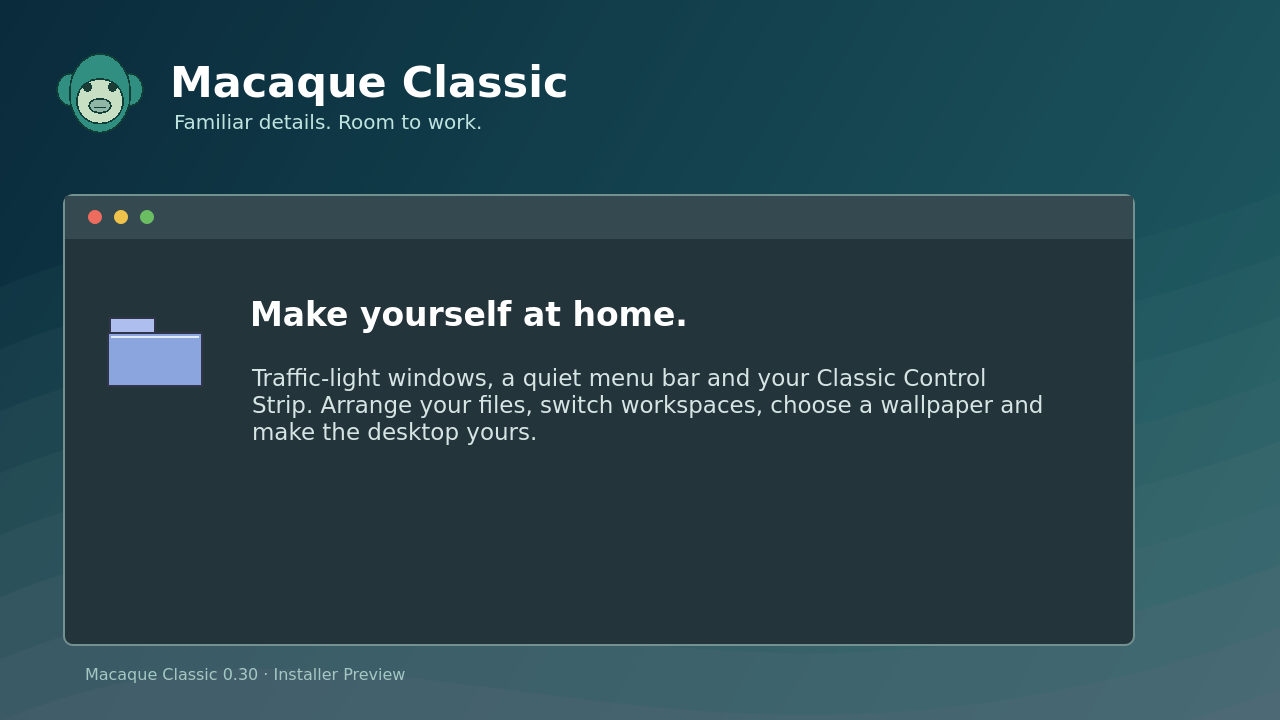
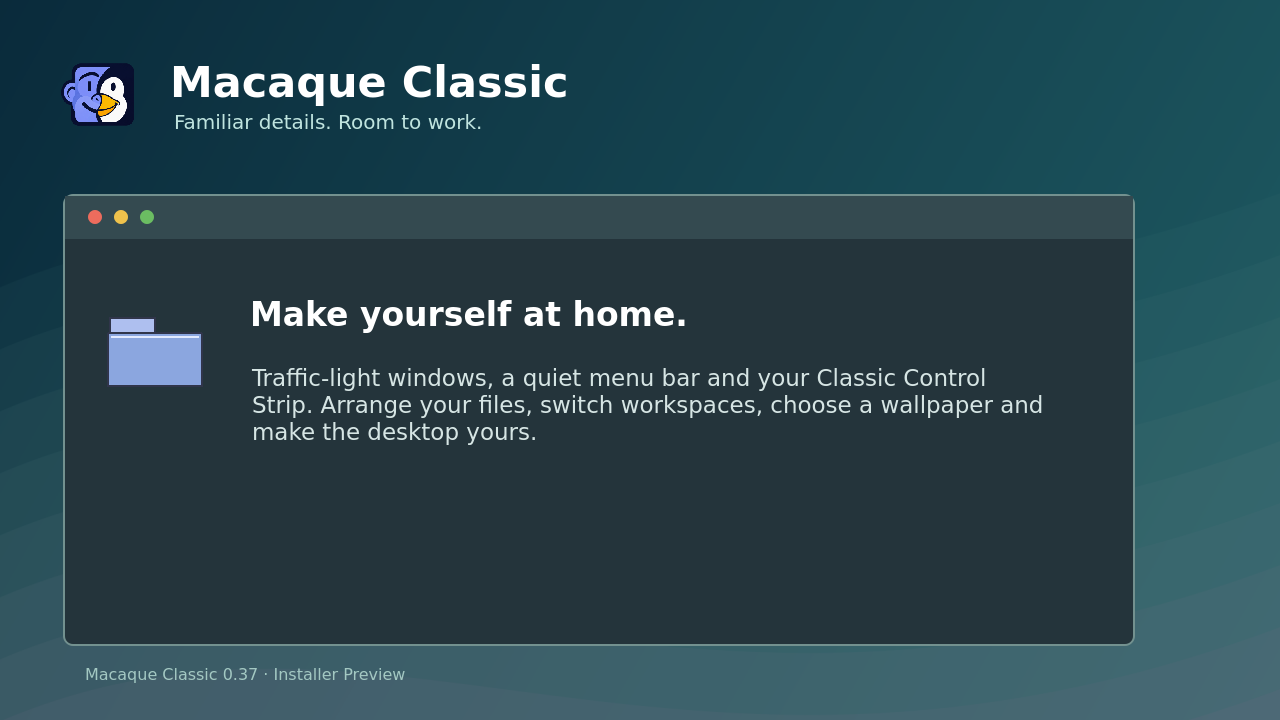
Add v0.38 desktop drawer tabs and retain updated Macaque branding

Changed region(s): [[0.0312, 0.0611, 0.125, 0.1833]]

diff --git a/desktop/desktop.py b/desktop/desktop.py
@@ -24,7 +24,7 @@ from teapot import Teapot
 from wallpapers import Wallpapers,render as render_wallpaper,NAMES as WALLPAPERS
 from mouse_tools import DesktopIcon,MousePreferences,paths_from
 from system_apps import AppHub,Sound,Network,Storage,Monitor,Display,ImageViewer,EmbeddedDialog
-VERSION='0.36'
+VERSION='0.38'
 
 from menu_compat import Menu as QMenu
 
@@ -35,7 +35,7 @@ class TitleBar(QWidget):
             b=QPushButton();b.setToolTip(name);b.setAccessibleName(name);b.setFixedSize(14,14);b.setStyleSheet(f'QPushButton {{background:{color}; border:1px solid #666; border-radius:7px; padding:0;}}');b.clicked.connect(callback);layout.addWidget(b)
         layout.addStretch();self.label=QLabel(title);self.label.setTextFormat(Qt.PlainText);self.label.setObjectName('titleCaption');layout.addWidget(self.label);layout.addStretch()
     def contextMenuEvent(self,event):
-        menu=QMenu(self);menu.addAction('Minimize',self.w.showMinimized);menu.addAction('Restore' if self.w.isMaximized() else 'Zoom',self.w.zoom);menu.addAction('Unshade' if self.w.shaded else 'Shade',self.w.shade)
+        menu=QMenu(self);menu.addAction('Minimize',self.w.showMinimized);menu.addAction('Restore' if self.w.isMaximized() else 'Zoom',self.w.zoom);menu.addAction('Unshade' if self.w.shaded else 'Shade',self.w.shade);menu.addAction('Detach Desktop Tab' if self.w.property('desktop_tabbed') else 'Tab to Desktop',lambda:self.w.d.desktop_tabs.detach(self.w) if self.w.property('desktop_tabbed') else self.w.d.desktop_tabs.attach(self.w))
         spaces=menu.addMenu('Move to Workspace')
         for i,name in enumerate(self.w.d.workspace_names()):spaces.addAction(name,lambda checked=False,n=i:self.w.d.move_to_workspace(self.w,n))
         menu.addSeparator();menu.addAction('Close',self.w.close);menu.exec(event.globalPos())
@@ -44,11 +44,14 @@ class TitleBar(QWidget):
         if self.w.d.area.activeSubWindow()==self.w:
             for y in range(5,27,3):p.drawLine(77,y,self.width()-7,y)
     def mousePressEvent(self,e):
-        if e.button()==Qt.LeftButton:self.drag=e.globalPosition().toPoint()-self.w.pos()
+        if e.button()==Qt.LeftButton:self.press_geometry=self.w.geometry();self.tab_dragged=False;self.drag=e.globalPosition().toPoint()-self.w.pos()
     def mouseMoveEvent(self,e):
         if self.drag is not None and e.buttons()&Qt.LeftButton and not self.w.isMaximized():
-            pos=e.globalPosition().toPoint()-self.drag;pos.setY(max(0,pos.y()));pos.setX(max(20-self.w.width(),min(self.w.d.area.viewport().width()-30,pos.x())));self.w.move(pos)
-    def mouseReleaseEvent(self,e):self.drag=None
+            if self.w.property('desktop_tabbed'):self.w.d.desktop_tabs.detach(self.w,keep_geometry=True)
+            self.tab_dragged=True;pos=e.globalPosition().toPoint()-self.drag;pos.setY(max(0,pos.y()));pos.setX(max(20-self.w.width(),min(self.w.d.area.viewport().width()-30,pos.x())));self.w.move(pos)
+    def mouseReleaseEvent(self,e):
+        if self.drag is not None and getattr(self,'tab_dragged',False) and self.w.d.area.viewport().mapFromGlobal(e.globalPosition().toPoint()).y()>=self.w.d.area.viewport().height()-28:self.w.d.desktop_tabs.attach(self.w,self.press_geometry)
+        self.drag=None
     def mouseDoubleClickEvent(self,e):self.w.zoom() if self.w.d.state.get('title_double')=='Zoom' else self.w.shade()
 
 class Window(QMdiSubWindow):
@@ -64,9 +67,11 @@ class Window(QMdiSubWindow):
         if isValid(self):animate(self,True)
     def rename(self,title):self.setWindowTitle(title);self.bar.label.setText(title)
     def zoom(self):
+        if self.property('desktop_tabbed'):self.d.desktop_tabs.detach(self,keep_geometry=True)
         if self.shaded:self.shade()
         self.showNormal() if self.isMaximized() else self.showMaximized()
     def shade(self):
+        if self.property('desktop_tabbed'):self.d.desktop_tabs.detach(self,keep_geometry=True)
         if self.isMaximized():self.showNormal()
         if self.shaded:
             self.setMaximumHeight(16777215);self.setMinimumHeight(200);self.content.show();self.grip.show();self.resize(self.saved_size);self.shaded=False
@@ -74,6 +79,7 @@ class Window(QMdiSubWindow):
             self.saved_size=self.size();self.content.hide();self.grip.hide();self.setMinimumHeight(34);self.setMaximumHeight(34);self.resize(self.width(),34);self.shaded=True
     def closeEvent(self,e):
         if hasattr(self.content,'can_close') and not self.content.can_close():e.ignore();return
+        if hasattr(self.d,'desktop_tabs') and self in self.d.desktop_tabs.records:self.d.desktop_tabs.remove_deleted(self)
         animate(self,False)
         self.d.play_sound('close');super().closeEvent(e)
 
@@ -120,6 +126,8 @@ class Desktop(InstallerSupport,ContextActions,WorkspaceFeatures,ModernFeatures,Q
         self.hardware_keys=HardwareKeys(self)
         from removable_drives import RemovableMonitor
         self.removable=RemovableMonitor(self)
+        from desktop_tabs import DesktopTabs
+        self.desktop_tabs=DesktopTabs(self)
         self.top_bar.help.addAction('Diagnostics',self.diagnostics);QTimer.singleShot(0,self.initial)
     def initial(self):
         if not getattr(self,'_welcome_checked',False):
@@ -542,7 +550,7 @@ class Desktop(InstallerSupport,ContextActions,WorkspaceFeatures,ModernFeatures,Q
     def special_menu(self):
         m=self.top_bar.special;m.clear();m.addAction('Empty Trash…',self.empty_trash);m.addAction('Manage Macaque Notes…',self.manage_stickies);m.addSeparator();m.addAction('Screen Saver Preview',self.screensaver);m.addAction('Restart Desktop…',self.restart);m.addAction('Quit Desktop',self.close)
     def window_menu(self,target=None):
-        m=target or self.top_bar.windows;m.clear();m.addAction('Cascade Windows',self.area.cascadeSubWindows);m.addAction('Tile Windows',self.area.tileSubWindows);spaces=m.addMenu('Workspaces');self.workspace_menu(spaces);m.addAction('Snap Active Left',lambda:self.snap_window('left'));m.addAction('Snap Active Right',lambda:self.snap_window('right'));m.addAction('Show / Restore Desktop',self.show_desktop);m.addSeparator()
+        m=target or self.top_bar.windows;m.clear();m.addAction('Cascade Windows',self.area.cascadeSubWindows);m.addAction('Tile Windows',self.area.tileSubWindows);spaces=m.addMenu('Workspaces');self.workspace_menu(spaces);m.addAction('Snap Active Left',lambda:self.snap_window('left'));m.addAction('Snap Active Right',lambda:self.snap_window('right'));m.addAction('Show / Restore Desktop',self.show_desktop);m.addAction('Tab Active Window to Desktop',lambda:self.desktop_tabs.attach(self.area.activeSubWindow()) if self.area.activeSubWindow() else None);m.addSeparator()
         for window in self.area.subWindowList():
             action=m.addAction(self.workspace_names()[window.property('workspace') or 0]+' / '+window.windowTitle(),lambda checked=False,w=window:self.activate_window(w));action.setCheckable(True);action.setChecked(window==self.area.activeSubWindow());action.setData(window)
     def save_active(self,save_as=False):
@@ -568,7 +576,7 @@ class Desktop(InstallerSupport,ContextActions,WorkspaceFeatures,ModernFeatures,Q
     def text_window(self,title,text,size=(490,340)):
         box=QTextEdit();box.setReadOnly(True);box.setPlainText(text);return self.window(title,box,size)
     def about(self):
-        panel=QWidget();layout=QHBoxLayout(panel);picture=QLabel();picture.setPixmap(icon('macaque',100).pixmap(100,100));layout.addWidget(picture);body=QLabel(f'<h2>Macaque Classic {VERSION}</h2><b>Macaque Desktop</b><p>Native Qt · Linux prototype<br>Classic Control Strip 2.0.6<br>Created with Drew Owen</p><p>Running: {platform.system()} {platform.machine()}<br>Target: Ryzen 7 + Radeon RX 6700 XT</p><p>Macaque Files · Control Panels · Macaque Text<br>Macaque Notes · Macaque Search · classic extras</p>');body.setWordWrap(True);layout.addWidget(body,1);return self.window('About This Computer',panel,(550,330))
+        panel=QWidget();layout=QHBoxLayout(panel);picture=QLabel();picture.setPixmap(icon('macaque-round',100).pixmap(100,100));layout.addWidget(picture);body=QLabel(f'<h2>Macaque Classic {VERSION}</h2><b>Macaque Desktop</b><p>Native Qt · Linux prototype<br>Classic Control Strip 2.0.6<br>Created with Drew Owen</p><p>Running: {platform.system()} {platform.machine()}<br>Target: Ryzen 7 + Radeon RX 6700 XT</p><p>Macaque Files · Control Panels · Macaque Text<br>Macaque Notes · Macaque Search · classic extras</p>');body.setWordWrap(True);layout.addWidget(body,1);return self.window('About This Computer',panel,(550,330))
     def control_panels(self):
         panel=QWidget();layout=QVBoxLayout(panel);grid=QGridLayout();layout.addLayout(grid)
         actions=[('Appearance','appearance',self.appearance),('Date & Time','clock',self.calendar),('Sound','computer',lambda:self.launch('Sound')),('Memory','computer',self.memory),('Desktop Disk','disk',lambda:self.text_window('Desktop Disk',f'Macaque HD is stored at:\n{self.disk.root}\n\nAvailable on host filesystem: {self.format_bytes(self.free_space())}')),('Screen Saver','computer',self.screensaver)]
@@ -644,7 +652,7 @@ class Desktop(InstallerSupport,ContextActions,WorkspaceFeatures,ModernFeatures,Q
                 if hasattr(window.content,'can_close') and not window.content.can_close():event.ignore();return
         if not self.app_support.can_close():event.ignore();return
         if hasattr(self,'creative_apps') and not self.creative_apps.can_close():event.ignore();return
-        self.persist();event.accept()
+        self.desktop_tabs.shutdown();self.persist();event.accept()
 
 if __name__=='__main__':
     from PySide6.QtCore import QProcess

diff --git a/desktop/desktop_tabs.py b/desktop/desktop_tabs.py
@@ -1,0 +1,91 @@
+"""Bottom-edge drawer tabs for live built-in windows; documents stay in memory."""
+from PySide6.QtCore import Qt,QObject,QEvent,QRect,QTimer
+from PySide6.QtWidgets import QTabBar,QMenu
+from shiboken6 import isValid
+
+class DesktopTabs(QObject):
+    def __init__(self,d):
+        super().__init__(d);self.d=d;self.records={};self.bar=QTabBar(d.area.viewport());self.bar.setObjectName('desktopDrawerTabs');self.bar.setExpanding(False);self.bar.setMovable(True);self.bar.setUsesScrollButtons(True);self.bar.setElideMode(Qt.ElideRight);self.bar.setDrawBase(False);self.bar.setShape(QTabBar.RoundedNorth);self.bar.hide();self.bar.tabBarClicked.connect(self.toggle_index);self.bar.tabMoved.connect(lambda *_:self.layout());self.bar.setContextMenuPolicy(Qt.CustomContextMenu);self.bar.customContextMenuRequested.connect(self.context);d.area.viewport().installEventFilter(self)
+        self.timer=QTimer(self);self.timer.setInterval(250);self.timer.timeout.connect(self.layout);self.timer.start()
+    def eventFilter(self,obj,event):
+        if event.type() in (QEvent.Resize,QEvent.Show):QTimer.singleShot(0,self.layout)
+        return False
+    def index(self,w):return next((i for i in range(self.bar.count()) if self.bar.tabData(i) is w),-1)
+    def attach(self,w,geometry=None):
+        if not isValid(w) or w in self.records:return
+        if w.isMaximized() or w.isMinimized():w.showNormal()
+        if w.shaded:w.shade()
+        self.records[w]={'geometry':QRect(geometry or w.geometry()),'drawer_size':w.size(),'open':False};w.setProperty('desktop_tabbed',True)
+        i=self.bar.addTab(w.windowTitle());self.bar.setTabData(i,w);self.bar.setTabToolTip(i,w.windowTitle()+' · click to open/collapse · right-click for options')
+        w.windowTitleChanged.connect(lambda *_:self.titles());w.destroyed.connect(lambda *_ ,key=w:self.remove_deleted(key));w.hide();self.layout()
+    def titles(self):
+        for w in self.records:
+            if isValid(w):
+                i=self.index(w)
+                if i>=0:self.bar.setTabText(i,w.windowTitle());self.bar.setTabToolTip(i,w.windowTitle()+' · click to open/collapse · right-click for options')
+    def remove_deleted(self,w):
+        self.records.pop(w,None)
+        if not isValid(self.bar):return
+        i=self.index(w)
+        if i>=0:self.bar.removeTab(i)
+        self.layout()
+    def toggle_index(self,index):
+        w=self.bar.tabData(index)
+        if w not in self.records:return
+        if self.records[w]['open']:self.collapse(w)
+        else:self.open(w)
+    def collapse(self,w):
+        if w not in self.records:return
+        self.records[w]['open']=False;w.hide();self.layout()
+    def open(self,w):
+        if w not in self.records or not isValid(w):return
+        space=w.property('workspace')
+        if space!=self.d.workspace:self.d.switch_workspace(space)
+        for other,record in self.records.items():
+            if other is not w and isValid(other) and other.property('workspace')==space:record['open']=False;other.hide()
+        self.records[w]['open']=True;self.bar.setCurrentIndex(self.index(w));w.showNormal();self.layout();w.raise_();self.bar.raise_();self.d.area.setActiveSubWindow(w);w.content.setFocus()
+    def detach(self,w,keep_geometry=False):
+        record=self.records.pop(w,None)
+        if not record:return
+        i=self.index(w)
+        if i>=0:self.bar.removeTab(i)
+        if isValid(w):
+            w.setProperty('desktop_tabbed',False)
+            if not keep_geometry:w.setGeometry(record['geometry'])
+            if w.property('workspace')==self.d.workspace:w.showNormal();w.raise_();self.d.area.setActiveSubWindow(w)
+        self.layout()
+    def layout(self):
+        if not isValid(self.d.area) or not isValid(self.bar):return
+        viewport=self.d.area.viewport();visible=[]
+        for w,record in list(self.records.items()):
+            if not isValid(w):continue
+            if w.isMinimized():record['open']=False
+            active=w.property('workspace')==self.d.workspace;i=self.index(w)
+            if i>=0:self.bar.setTabVisible(i,active)
+            if active:visible.append(w)
+            w.setVisible(active and record['open'])
+        if not visible:self.bar.hide();return
+        c=self.d.colors();self.bar.setStyleSheet('QTabBar::tab {background:'+c['title']+';color:'+c['text']+';border:1px solid '+c['stripe']+';border-top-left-radius:5px;border-top-right-radius:5px;padding:4px 12px;min-width:65px;max-width:180px;} QTabBar::tab:selected {font-weight:bold;}')
+        height=max(26,self.d.state.get('text_size',13)+12);left=4;y=viewport.height()-height
+        strip=getattr(self.d,'strip',None)
+        if strip and isValid(strip) and strip.isVisible() and strip.geometry().bottom()>=y-5:
+            if viewport.width()-strip.geometry().right()>250:left=max(4,strip.geometry().right()+8)
+            else:y=max(0,strip.geometry().top()-height-3)
+        self.bar.setGeometry(left,max(0,y),max(50,viewport.width()-left-4),height);self.bar.show()
+        for w in visible:
+            record=self.records[w]
+            if not record['open']:continue
+            if 'last_size' in record and w.size()!=record['last_size']:record['drawer_size']=w.size()
+            size=record['drawer_size'];width=max(280,min(size.width(),viewport.width()));height_w=max(200,min(size.height(),max(200,y)))
+            i=self.index(w);tab=self.bar.tabRect(i);x=max(0,min(left+tab.left(),viewport.width()-width));w.setGeometry(x,max(0,y-height_w),width,height_w);record['last_size']=w.size()
+        self.bar.raise_()
+    def shutdown(self):
+        self.timer.stop();self.bar.blockSignals(True)
+        while self.bar.count():self.bar.removeTab(0)
+        self.records.clear();self.bar.hide()
+    def context(self,pos):
+        index=self.bar.tabAt(pos)
+        if index<0:return
+        w=self.bar.tabData(index);menu=QMenu(self.bar)
+        menu.addAction('Collapse' if self.records[w]['open'] else 'Open',lambda:self.toggle_index(self.index(w)))
+        menu.addAction('Detach as Normal Window',lambda:self.detach(w));menu.addSeparator();menu.addAction('Close Window',w.close);menu.exec(self.bar.mapToGlobal(pos))

diff --git a/desktop/test_desktop_tabs.py b/desktop/test_desktop_tabs.py
@@ -1,0 +1,31 @@
+import os,tempfile
+from pathlib import Path
+os.environ['QT_QPA_PLATFORM']='offscreen';os.environ['MACAQUE_SILENT']='1'
+from PySide6.QtCore import Qt,QPoint,QEvent
+from PySide6.QtWidgets import QApplication,QMessageBox
+from PySide6.QtTest import QTest
+from unittest.mock import patch
+from desktop import Desktop
+app=QApplication([])
+with tempfile.TemporaryDirectory() as t:
+ d=Desktop(Path(t));d.state['reduce_motion']=True;d.show();QTest.qWait(80);tabs=d.desktop_tabs
+ w=d.launch('Macaque Text');editor=w.content.editor;editor.setPlainText('Keep my unsaved work');original=w.geometry();tabs.attach(w);assert not w.isVisible() and tabs.bar.isVisible() and tabs.bar.count()==1
+ QTest.mouseClick(tabs.bar,Qt.LeftButton,pos=tabs.bar.tabRect(0).center());assert w.isVisible() and editor.toPlainText()=='Keep my unsaved work';assert w.geometry().bottom()<=tabs.bar.y()
+ QTest.mouseClick(tabs.bar,Qt.LeftButton,pos=tabs.bar.tabRect(0).center());assert not w.isVisible()
+ d.activate_window(w);assert w.isVisible();w.rename('My Draft');assert tabs.bar.tabText(0)=='My Draft'
+ other=d.launch('Calculator');tabs.attach(other);tabs.open(other);assert not w.isVisible() and other.isVisible();tabs.open(w);assert not other.isVisible()
+ d.resize(900,650);QTest.qWait(60);tabs.layout();assert w.geometry().bottom()<=tabs.bar.y() and tabs.bar.geometry().right()<d.area.viewport().width()
+ d.switch_workspace(1);assert not w.isVisible() and not tabs.bar.isVisible();d.switch_workspace(0);assert w.isVisible() and tabs.bar.isVisible()
+ d.move_to_workspace(w,2);assert not w.isVisible();d.activate_window(w);assert d.workspace==2 and w.isVisible()
+ tabs.detach(w);assert not w.property('desktop_tabbed') and w.geometry()==original and editor.toPlainText()=='Keep my unsaved work'
+ tabs.attach(w)
+ with patch.object(w.content,'can_close',return_value=False):w.close();assert w in tabs.records
+ with patch.object(w.content,'can_close',return_value=True):w.close();QTest.qWait(20);assert w not in tabs.records
+ d.switch_workspace(0);tabs.detach(other);assert tabs.bar.count()==0 and not tabs.bar.isVisible()
+ # Drag a live title bar to the lower edge; dragging back out detaches.
+ test=d.launch('Calculator');test.move(50,50);press=test.bar.rect().center();target=d.area.viewport().mapToGlobal(QPoint(300,d.area.viewport().height()-5));end=test.bar.mapFromGlobal(target)
+ QTest.mousePress(test.bar,Qt.LeftButton,pos=press);QTest.mouseMove(test.bar,end,20);QTest.mouseRelease(test.bar,Qt.LeftButton,pos=end);assert test in tabs.records
+ tabs.open(test);QTest.mousePress(test.bar,Qt.LeftButton,pos=test.bar.rect().center());QTest.mouseMove(test.bar,QPoint(100,-80),20);QTest.mouseRelease(test.bar,Qt.LeftButton,pos=QPoint(100,-80));assert test not in tabs.records
+ for _ in range(3):tabs.attach(d.launch('Calculator'))
+ d.quitting=True;d.close();assert tabs.bar.count()==0 and not tabs.timer.isActive()
+print('Desktop drawer tabs: click open/collapse, preserved edits, rename, detach geometry, close cancellation, workspace move/activation, resize, drag-to-edge and drag-off passed.')

diff --git a/iso/render-branding.py b/iso/render-branding.py
@@ -18,7 +18,7 @@ def card(name,title,subtitle,kind,body):
  for x,c in [(88,'#ed6c5d'),(114,'#efc24c'),(140,'#6bbd62')]:p.setPen(Qt.NoPen);p.setBrush(QColor(c));p.drawEllipse(x,210,14,14)
  p.drawPixmap(100,292,110,110,icon(kind,110).pixmap(110,110));p.setPen(QColor('#ffffff'));p.setFont(QFont('DejaVu Sans',25,QFont.Bold));p.drawText(QRect(250,280,820,70),Qt.AlignLeft|Qt.AlignVCenter,title)
  p.setFont(QFont('DejaVu Sans',17));p.setPen(QColor('#d6e5e4'));p.drawText(QRect(252,365,800,195),Qt.AlignLeft|Qt.TextWordWrap,body)
- p.setFont(QFont('DejaVu Sans',12));p.setPen(QColor('#a3c8c2'));p.drawText(85,680,'Macaque Classic 0.30 · Installer Preview');p.end();image.save(str(dest/name))
+ p.setFont(QFont('DejaVu Sans',12));p.setPen(QColor('#a3c8c2'));p.drawText(85,680,'Macaque Classic 0.37 · Installer Preview');p.end();image.save(str(dest/name))
 card('welcome.png','A classic desktop, ready to explore.','Welcome to your Macaque installation','macaque','Choose your language, keyboard, disk and account. Review the summary before applying changes. Built on Debian Linux, with an original Macaque desktop.')
 card('slide-desktop.png','Make yourself at home.','Familiar details. Room to work.','folder','Traffic-light windows, a quiet menu bar and your Classic Control Strip. Arrange your files, switch workspaces, choose a wallpaper and make the desktop yours.')
 card('slide-terminal.png','A shell with a familiar frame.','Terminal is part of the desktop.','terminal','Open Terminal from the Control Strip or desktop. Real Linux commands run inside a Macaque window, with the same controls as your other built-in apps.')

diff --git a/desktop/run_checks.py b/desktop/run_checks.py
@@ -4,7 +4,7 @@ import os,subprocess,sys,compileall
 from pathlib import Path
 root=Path(__file__).resolve().parent
 env=dict(os.environ,QT_QPA_PLATFORM='offscreen',MACAQUE_SILENT='1')
-checks=['test_desktop.py','test_update.py','test_internal.py','test_expansion.py','test_creative.py','test_modern.py','test_sounds.py','test_search_backup.py','test_app_support.py','test_downloads.py','test_big_update.py','test_publish.py','test_motion.py','test_context.py','test_installer.py','test_menu_compat.py','test_terminal_swap_ui.py','test_terminal_pty.py','test_laptop.py','test_system_services.py','test_system_panels.py','test_wayland.py','test_menu_mark.py','test_laptop_keys.py','test_screenshots.py','test_capture_ui.py','test_reliability.py','test_reliability_ui.py','test_welcome.py','test_finish_features.py']
+checks=['test_desktop.py','test_update.py','test_internal.py','test_expansion.py','test_creative.py','test_modern.py','test_sounds.py','test_search_backup.py','test_app_support.py','test_downloads.py','test_big_update.py','test_publish.py','test_motion.py','test_context.py','test_installer.py','test_menu_compat.py','test_terminal_swap_ui.py','test_terminal_pty.py','test_laptop.py','test_system_services.py','test_system_panels.py','test_wayland.py','test_menu_mark.py','test_laptop_keys.py','test_screenshots.py','test_capture_ui.py','test_reliability.py','test_reliability_ui.py','test_welcome.py','test_finish_features.py','test_desktop_tabs.py']
 if not compileall.compile_dir(root,quiet=1):sys.exit(1)
 for name in checks:
  print('\nChecking '+name,flush=True)

diff --git a/desktop/modern_desktop.py b/desktop/modern_desktop.py
@@ -92,15 +92,20 @@ class ModernFeatures:
         groups=getattr(self,'desktop_window_groups',{});hidden=groups.get(self.workspace,[])
         if hidden:
             for window in hidden:
-                if isValid(window) and window.property('workspace')==self.workspace:window.showNormal()
+                if isValid(window) and window.property('workspace')==self.workspace:
+                    if window.property('desktop_tabbed'):self.desktop_tabs.open(window)
+                    else:window.showNormal()
             groups[self.workspace]=[]
         else:
-            groups[self.workspace]=[w for w in self.area.subWindowList() if w.property('workspace')==self.workspace and not w.isMinimized()]
-            for window in groups[self.workspace]:window.showMinimized()
+            groups[self.workspace]=[w for w in self.area.subWindowList() if w.property('workspace')==self.workspace and not w.isMinimized() and w.isVisible()]
+            for window in groups[self.workspace]:
+                if window.property('desktop_tabbed'):self.desktop_tabs.collapse(window)
+                else:window.showMinimized()
         self.desktop_window_groups=groups
     def snap_window(self,side):
         w=self.area.activeSubWindow()
         if not w:return
+        if w.property('desktop_tabbed'):self.desktop_tabs.detach(w,keep_geometry=True)
         if w.shaded:w.shade()
         w.showNormal();rect=self.area.viewport().rect();half=rect.width()//2;w.setGeometry(0 if side=='left' else half,0,half,rect.height())
     def capture_desktop(self):

diff --git a/desktop/welcome_animation.py b/desktop/welcome_animation.py
@@ -3,12 +3,12 @@ import math
 from PySide6.QtCore import Qt,QTimer,QElapsedTimer,QRectF
 from PySide6.QtGui import QPainter,QColor,QFont,QLinearGradient
 from PySide6.QtWidgets import QDialog
-from window_motion_icon import rainbow_monkey
+from visuals import icon
 DURATION=15.0
 
 class WelcomeAnimation(QDialog):
     def __init__(self,d,replay=False):
-        super().__init__(d);self.d=d;self.replay=replay;self.setWindowTitle('Welcome to Macaque Classic');self.setWindowFlags(Qt.Dialog|Qt.FramelessWindowHint);self.setModal(True);self.resize(1280,720);self.t=0.;self.completed=False;self.logo=rainbow_monkey();self.clock=QElapsedTimer()
+        super().__init__(d);self.d=d;self.replay=replay;self.setWindowTitle('Welcome to Macaque Classic');self.setWindowFlags(Qt.Dialog|Qt.FramelessWindowHint);self.setModal(True);self.resize(1280,720);self.t=0.;self.completed=False;self.logo=icon('macaque');self.clock=QElapsedTimer()
         self.timer=QTimer(self);self.timer.setInterval(33);self.timer.timeout.connect(self.tick);self.finished.connect(self.cleanup)
     def showEvent(self,e):
         super().showEvent(e);self.clock.start();self.timer.start();QTimer.singleShot(400,self.chime)

diff --git a/desktop/workspaces.py b/desktop/workspaces.py
@@ -32,16 +32,19 @@ class WorkspaceFeatures:
         if index not in range(4):return
         self.workspace=index;self.state['workspace']=index
         for window in self.area.subWindowList():window.setVisible(window.property('workspace')==index)
+        if hasattr(self,'desktop_tabs'):self.desktop_tabs.layout()
         self.persist();self.top_bar.refresh_status()
     def activate_window(self,window):
         from shiboken6 import isValid
         if not isValid(window):return
         index=window.property('workspace')
         if index is not None and index!=self.workspace:self.switch_workspace(index)
+        if window.property('desktop_tabbed'):self.desktop_tabs.open(window);return
         window.showNormal();window.raise_();self.area.setActiveSubWindow(window)
     def move_to_workspace(self,window,index):
         if index not in range(4):return
         window.setProperty('workspace',index);window.setVisible(index==self.workspace);self.top_bar.refresh_status()
+        if hasattr(self,'desktop_tabs'):self.desktop_tabs.layout()
     def workspace_menu(self,menu):
         menu.clear()
         for i,name in enumerate(self.workspace_names()):

diff --git a/desktop/visuals.py b/desktop/visuals.py
@@ -16,6 +16,9 @@ QScrollBar { background:#c9c8c3; } QCalendarWidget QWidget { color:#171717; } QS
 '''
 
 def icon(kind='folder',size=56):
+    if kind in ('macaque','macaque-round'):
+        from pathlib import Path
+        return QIcon(str(Path(__file__).parent/'assets/branding'/('round.png' if kind=='macaque-round' else 'square.png')))
     pm=QPixmap(size,size);pm.fill(Qt.transparent);p=QPainter(pm);p.scale(size/56,size/56);p.setPen(QPen(QColor('#30354a'),1))
     if kind in ('folder','apps','system','documents'):
         p.setBrush(QColor('#aebfef'));p.drawRect(5,13,23,10);p.setBrush(QColor('#8ba6df'));p.drawRect(4,21,48,27);p.setPen(QColor('#e2eaff'));p.drawLine(6,23,50,23)

diff --git a/README.md b/README.md
@@ -1,8 +1,24 @@
-# Macaque Classic 0.36 — Setup & Everyday Essentials
+# Macaque Classic 0.38 — Desktop Drawer Tabs
+
+New square monkey/penguin branding in About This Computer, Welcome Center, first-run animated welcome, installer artwork, boot splash and login screen. The round version appears in About This Computer and is included in desktop/assets/branding/round.png.
+
+Install packages/macaque-classic_0.38_amd64.deb on an existing installed Macaque Classic system using the existing update procedure. Log out and back in to refresh desktop branding. This update includes login artwork; boot splash branding is included for newly built ISOs. Existing installations retain their current boot splash.
+
+Build a fresh ISO with ./build-iso.sh using the existing build prerequisites. No ISO was built or boot-tested for this artwork update. The standalone welcome-preview.mp4 is retained from the previous release; the actual first-run desktop animation uses the new shared icon.
+
+# Macaque Classic 0.38 — Setup & Everyday Essentials
 
 Build: extract this kit into a new folder, open that folder in a terminal and run `bash build-iso.sh`. The ISO and checksum are always placed directly in `output/` after assembly/readback. The BIOS QEMU test then runs and saves its result alongside the ISO. A failed or inconclusive boot test no longer hides the assembled image in a root-owned build directory. Failure still means manual boot testing is required before installing.
 
 ## Included in this update
+
+- Classic bottom-edge drawer tabs for built-in windows. Right-click a striped title bar and choose Tab to Desktop, use Window → Tab Active Window to Desktop, or drag the title bar down to the bottom edge.
+- Click a tab to open/collapse its drawer. Only one drawer opens per workspace at a time. Right-click a tab to detach it as a normal window or close it; dragging an opened drawer's title bar away also detaches it.
+- The actual live window is retained, including unsaved edits. Detach restores its saved normal geometry. Closing still respects the application's save/cancel prompt. Tabs are session-local; they do not automatically reopen apps after logout.
+- Tabs follow their workspace and stay reachable on desktop resize. A scrolling/reorderable tab row handles overflow and avoids the visible Control Strip. External Flatpak/emulator windows are not managed by this feature.
+- Keeps v0.37.1 branding, including the restored rainbow system-menu icon. Updated ISO output naming now identifies v0.38.
+
+### Retained desktop features
 
 - Non-skippable 15-second welcome: no Skip/Mute buttons; Escape, Return, accept/reject and close requests do not dismiss it before completion. First-login-only policy retained; normal OS shutdown remains under system control.
 - Setup Assistant follows the intro: appearance/sound, native Wi-Fi link, validated system time-zone selection through timedatectl/polkit, and essential app links. Finish records completion; reopen from the monkey menu.
@@ -31,7 +47,7 @@ Build: extract this kit into a new folder, open that folder in a terminal and ru
 - Compact top panel: 22 logical pixels (previous released default: 32), spacious mode: 28. Text remains 12 px; icon sizes are retained.
 - Always-visible search button beside Controls opens the internal apps/files search. Native Macaque sessions also offer an explicit This PC home-files scope. Hidden files and symlinks are excluded; scans stop at 10,000 entries or 250 matching files. Preview sessions keep search inside the managed Classic volume.
 - New front-facing macaque crest with six horizontal retro rainbow colors, inspired by the small host-panel logo reference. This is a redraw, not the exact original asset.
-- Full source kit: no separate panel patch required. This version identifies itself as 0.36 and produces distinctly named 0.36 media.
+- Full source kit: no separate panel patch required. This version identifies itself as 0.38 and produces distinctly named 0.38 media.
 
 ### Retained laptop and reliability features
 
@@ -57,7 +73,7 @@ Keyboard routing, PipeWire/logind boundaries, screenshot saving/cancel/failure c
 
 ## Build on Ubuntu / Kubuntu
 
-Use an x86-64 Linux computer with Internet, Docker, about 60 GB free space and preferably 8 GB RAM. Open the extracted `macaque-classic-installer-kit-v0.36` folder in Terminal, or clone the repository. First-time Docker setup:
+Use an x86-64 Linux computer with Internet, Docker, about 60 GB free space and preferably 8 GB RAM. Open the extracted `macaque-classic-installer-kit-v0.38` folder in Terminal, or clone the repository. First-time Docker setup:
 
 ```bash
 sudo apt update
@@ -71,14 +87,14 @@ Then run:
 bash build-iso.sh
 ```
 
-The builder uses a privileged Debian live-build container. It mounts this kit and its output folder; it does not flash USB or install to the host. Finished media is `output/macaque-classic-0.36-installer-DATE-TIME.iso` with `.sha256` and `.boot-check.json`. Boot-test logs are `output/boot-check.log` and `output/boot-check.qemu.log`. The generated ISO is copied before the QEMU test. An inconclusive test is reported explicitly; it is not a successful boot certification. The earlier empty serial-log failure can occur while the manually booted VM reaches the desktop. Manual VirtualBox testing requires VMSVGA with 3D acceleration enabled for the accelerated compositor.
+The builder uses a privileged Debian live-build container. It mounts this kit and its output folder; it does not flash USB or install to the host. Finished media is `output/macaque-classic-0.38-installer-DATE-TIME.iso` with `.sha256` and `.boot-check.json`. Boot-test logs are `output/boot-check.log` and `output/boot-check.qemu.log`. The generated ISO is copied before the QEMU test. An inconclusive test is reported explicitly; it is not a successful boot certification. The earlier empty serial-log failure can occur while the manually booted VM reaches the desktop. Manual VirtualBox testing requires VMSVGA with 3D acceleration enabled for the accelerated compositor.
 
 ## Installed desktop update
 
-The included `packages/macaque-classic_0.36_amd64.deb` is only for an existing installed Macaque target, not the live USB or your normal Ubuntu/Kubuntu build host. It rebuilds the Control Strip for target Qt and may download dependencies:
+The included `packages/macaque-classic_0.38_amd64.deb` is only for an existing installed Macaque target, not the live USB or your normal Ubuntu/Kubuntu build host. It rebuilds the Control Strip for target Qt and may download dependencies:
 
 ```bash
-sudo apt install ./packages/macaque-classic_0.36_amd64.deb
+sudo apt install ./packages/macaque-classic_0.38_amd64.deb
 ```
 
 Save work and reboot afterward. Installer-policy and boot-image changes require a new ISO; a desktop update cannot change an already-built ISO. Package configuration is not tested in a real target chroot here. Keep your older working image and backups.
@@ -93,7 +109,7 @@ The offline installer and checked GRUB wrapper retain selected-disk handling and
 
 ## Testing and publication
 
-26 desktop suites pass offscreen, including native Control Strip loading, real internal screenshot PNG/clipboard checks, media key routing and mocked PipeWire/logind/grim/slurp boundaries. Build-kit fixtures check password rules and installed recovery cleanup. The authoring runtime denies AF_UNIX, so the real shortcut socket test is explicitly skipped. No 0.36 ISO assembly, live display capture, PAM authentication or physical laptop key/backlight/audio test ran here.
+26 desktop suites pass offscreen, including native Control Strip loading, real internal screenshot PNG/clipboard checks, media key routing and mocked PipeWire/logind/grim/slurp boundaries. Build-kit fixtures check password rules and installed recovery cleanup. The authoring runtime denies AF_UNIX, so the real shortcut socket test is explicitly skipped. No 0.38 ISO assembly, live display capture, PAM authentication or physical laptop key/backlight/audio test ran here.
 
 [GitHub releases](https://github.com/Zerocool66612/Classic-Macaque-Os/releases) contain published ISO assets; source archives are build kits. Source pushes do not upload an ISO or update installed machines. Software Update discovers matching desktop `.deb` and `.deb.sha256` release assets. No signed custom Macaque update feed is claimed.
 
@@ -114,3 +130,5 @@ The system menu uses the new white macaque profile, with green only on hover/pre
 ---
 
 Project direction and original Control Strip: Drew Owen. AI-assisted development. No general project redistribution license has been selected; dependency notices remain in effect. No Apple ROM, OS image or application is bundled. Classic Mac emulator configuration does not implement Mac OS 9.2.2 application compatibility. No UNIX certification is claimed.
+
+0.38 restores the original rainbow monkey system menu icon; other branding keeps the new artwork.

diff --git a/desktop/STATUS.md b/desktop/STATUS.md
@@ -1,3 +1,5 @@
+0.38: built-in desktop drawer tabs with edge dragging, click open/collapse, detach, workspace integration, rename updates and close cancellation. New offscreen interaction tests cover preserved edits, geometry, drag-to-edge/drag-off, resize, workspace movement and shutdown cleanup. All project checks pass; real Wayland/VM drawer interaction remains unverified.
+
 0.36: mandatory welcome -> Setup Assistant; Software Center; Lock & Sleep; Accessibility; personal-folder backup and validated preference recovery. All 30 desktop suites and build-kit checks passed offscreen with mocked services. Close/Escape prevention, completion flow, lock failure preventing suspend, guarded service argv, backup exclusions and safe preference import verified. Real Flatpak downloads, timezone authorization, password unlock, laptop wake/lid and ISO installation remain unverified.
 
 0.35: original welcome music, integrated into the normal sound preference/event controls and the welcome Skip/Mute lifecycle. Preview audio replaced with the composition. Actual audio-device output and native installed login remain unverified here.
